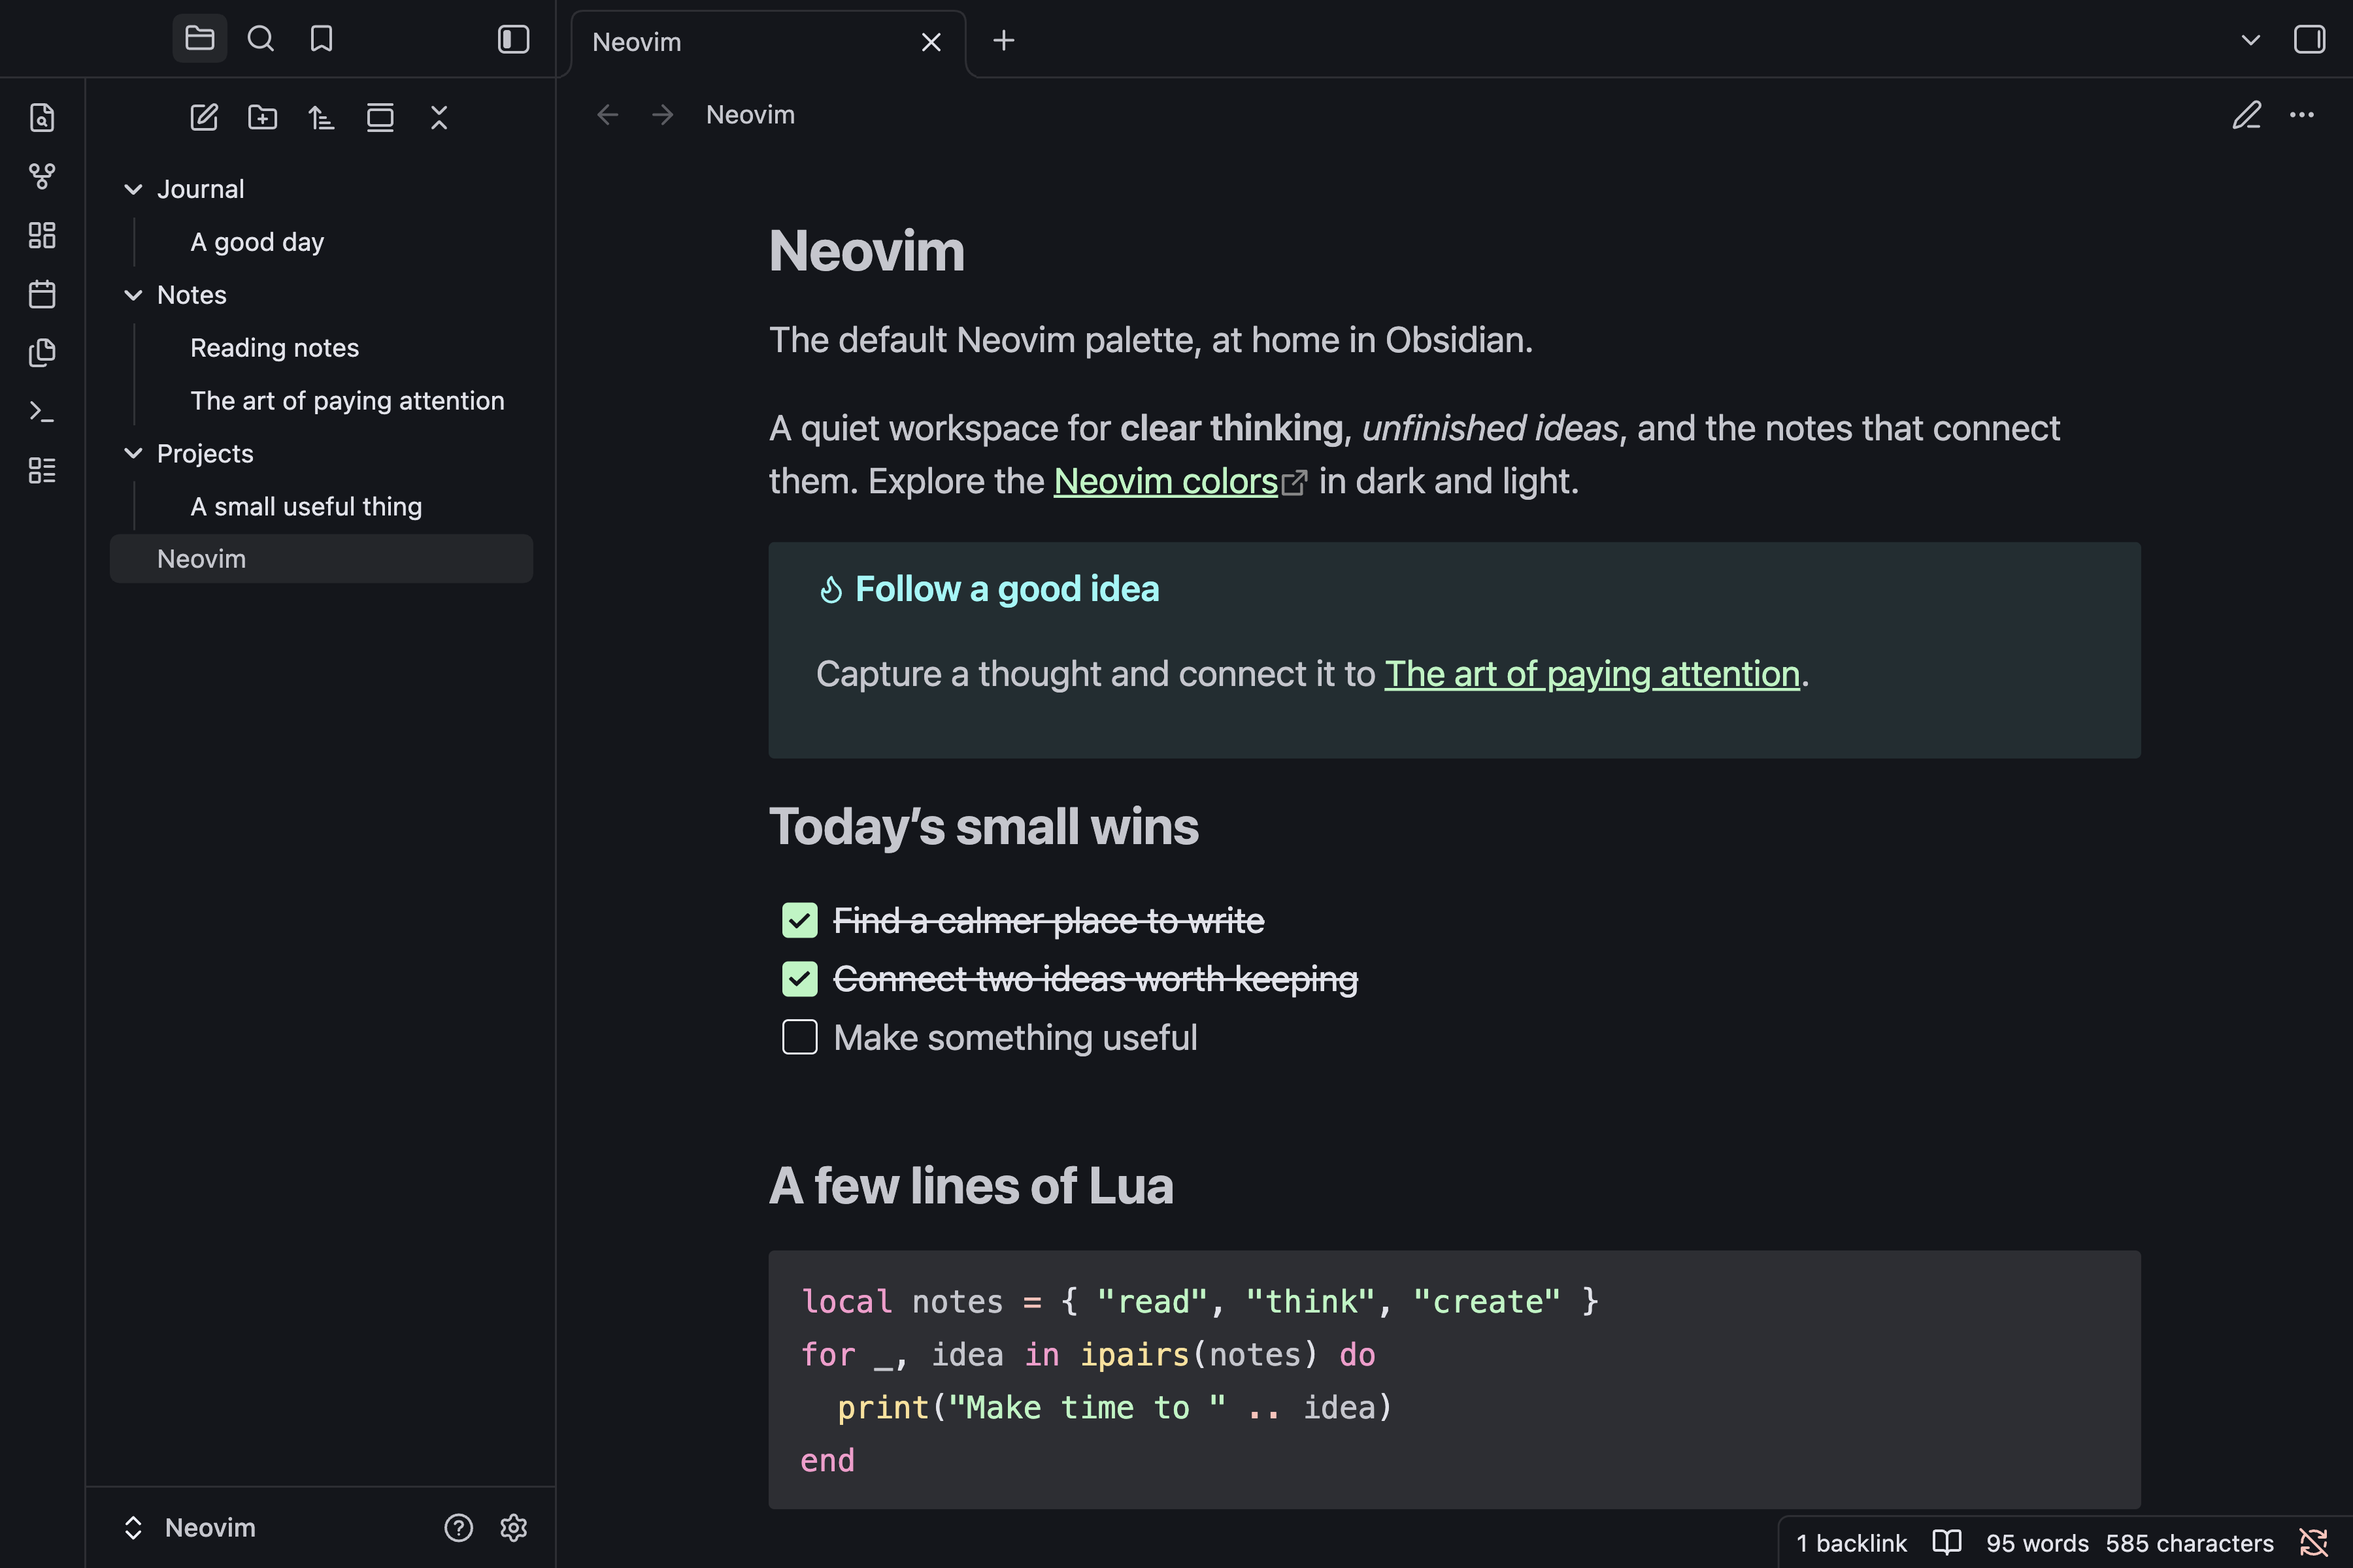
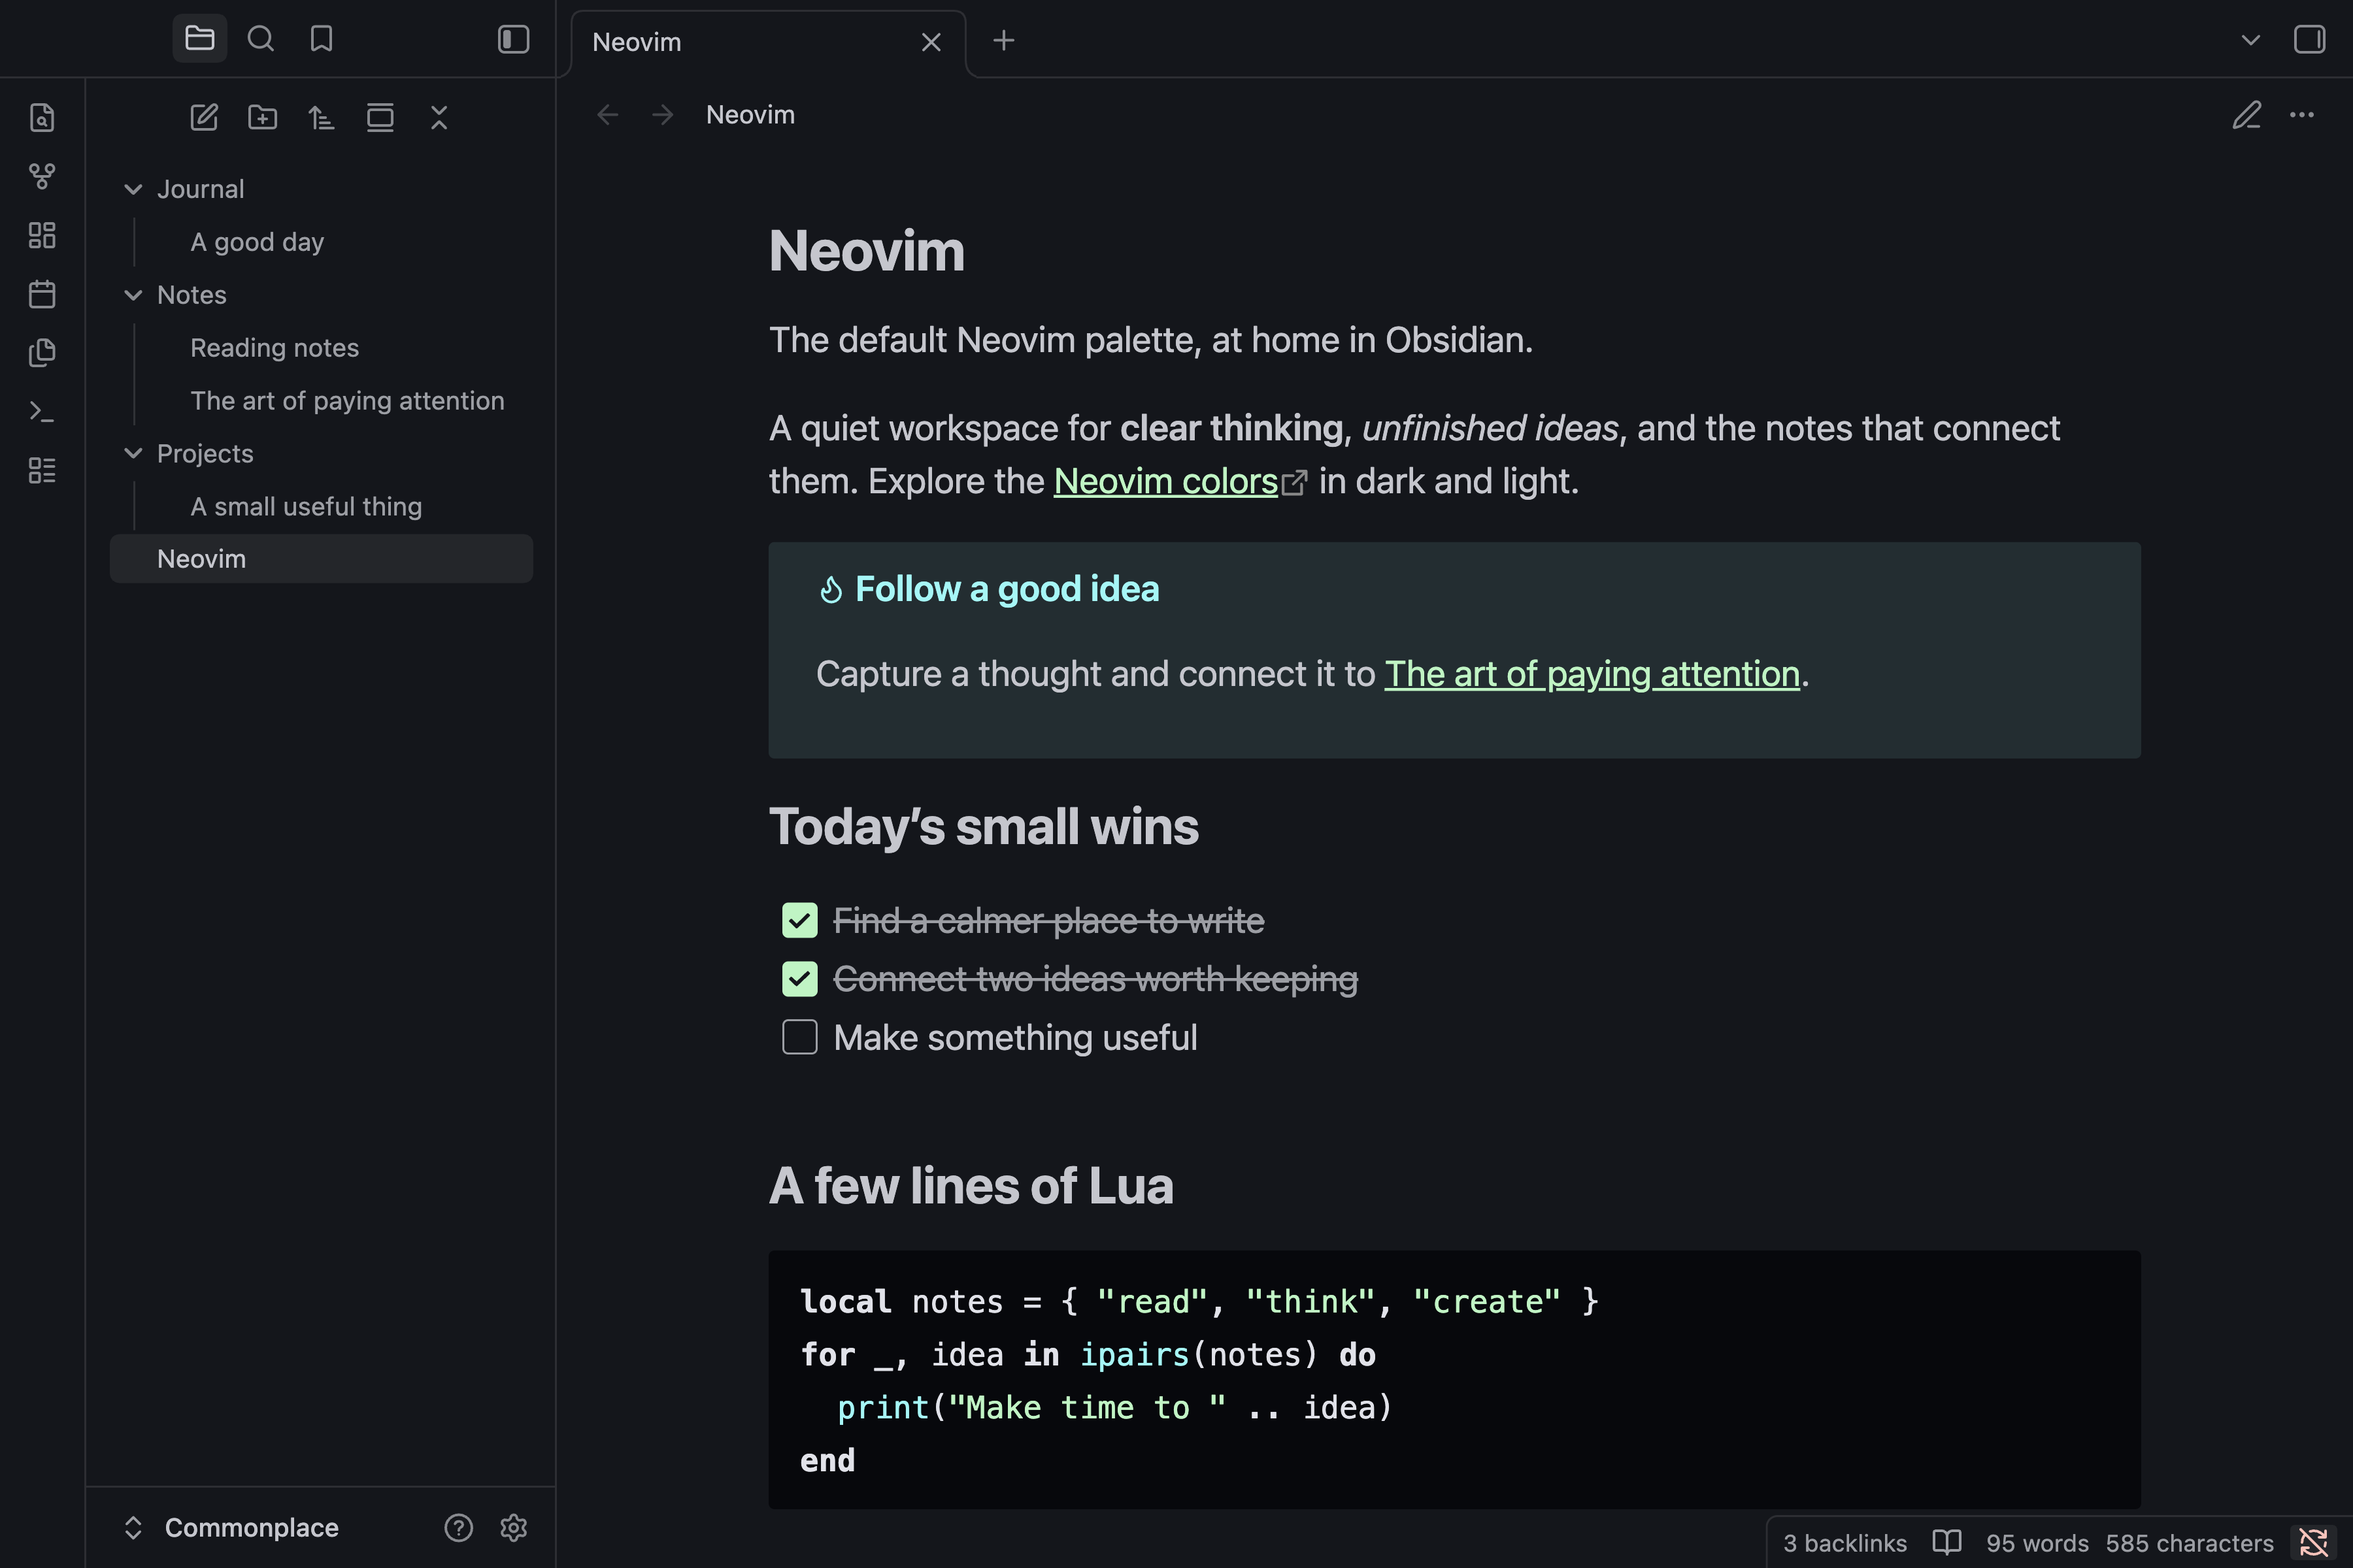
feat: extend Neovim colors across the workspace

diff --git a/theme.css b/theme.css
@@ -1,7 +1,7 @@
 body {
   --text-normal: var(--color-base-60);
-  --text-muted: var(--color-base-70);
-  --text-faint: var(--color-base-80);
+  --text-muted: var(--color-base-50);
+  --text-faint: var(--color-base-50);
   --text-on-accent: var(--color-base-20);
   --modal-border-color: var(--color-base-30, var(--background-modifier-border-focus));
   --prompt-border-color: var(--color-base-30, var(--background-modifier-border-focus));
@@ -28,7 +28,7 @@ body {
   --color-accent-2: hsl(calc(var(--accent-h) - 3), calc(var(--accent-s) * 1.05), calc(var(--accent-l) * 1.15));
   --color-red-rgb: 255, 192, 185;
   --color-red: #ffc0b9;
-  --color-yellow-rgb: 254, 224, 148;
+  --color-yellow-rgb: 252, 224, 148;
   --color-yellow: #fce094;
   --color-green-rgb: 179, 246, 192;
   --color-green: #b3f6c0;
@@ -78,6 +78,16 @@ body {
 
 .theme-dark,
 .theme-light {
+  --color-base-00: var(--color-base-10);
+  --color-base-05: var(--color-base-10);
+  --color-base-25: var(--color-base-30);
+  --color-base-35: var(--color-base-40);
+  --color-base-100: var(--color-base-70);
+  --color-orange: var(--color-yellow);
+  --color-orange-rgb: var(--color-yellow-rgb);
+  --color-pink: var(--color-purple);
+  --color-pink-rgb: var(--color-purple-rgb);
+
   --background-primary: var(--color-base-20);
   --background-primary-alt: var(--color-base-30);
   --background-secondary: var(--color-base-20);
@@ -90,4 +100,110 @@ body {
   --background-modifier-border-focus: var(--color-base-40);
   --interactive-normal: var(--color-base-10);
   --interactive-hover: var(--color-base-20);
+
+  --text-selection: var(--color-base-40);
+  --highlight-background-yellow: color-mix(in srgb, var(--color-yellow) 20%, transparent);
+  --text-highlight-bg: var(--highlight-background-yellow);
+  --highlight-background: var(--highlight-background-yellow);
+
+  --code-background: var(--color-base-10);
+  --code-normal: var(--color-base-70);
+  --code-comment: var(--color-base-50);
+  --code-function: var(--color-cyan);
+  --code-important: var(--color-cyan);
+  --code-keyword: var(--color-base-70);
+  --code-operator: var(--color-base-70);
+  --code-property: var(--color-blue);
+  --code-punctuation: var(--color-base-70);
+  --code-string: var(--color-green);
+  --code-tag: var(--color-cyan);
+  --code-value: var(--color-base-70);
+
+  --blockquote-color: var(--text-normal);
+  --blockquote-border-color: var(--color-base-40);
+
+  --callout-default: var(--color-cyan);
+  --callout-info: var(--color-cyan);
+  --callout-todo: var(--color-blue);
+  --callout-important: var(--color-cyan);
+  --callout-tip: var(--color-cyan);
+  --callout-success: var(--color-green);
+  --callout-question: var(--color-yellow);
+  --callout-warning: var(--color-yellow);
+  --callout-fail: var(--color-red);
+  --callout-error: var(--color-red);
+  --callout-bug: var(--color-red);
+  --callout-example: var(--color-purple);
+  --callout-summary: var(--color-cyan);
+  --callout-quote: var(--text-muted);
+}
+
+.markdown-rendered .token.keyword,
+.markdown-source-view.mod-cm6 .cm-keyword {
+  font-weight: var(--font-bold);
+}
+
+.plugin-tasks-toolbar {
+  align-items: center;
+  gap: var(--size-4-2);
+}
+
+.plugin-tasks-toolbar > label {
+  position: relative;
+  flex: 1;
+  min-width: 0;
+  max-width: 24em;
+}
+
+.plugin-tasks-toolbar label input {
+  width: 100%;
+  min-width: 0;
+  height: var(--input-height);
+  padding: 0 var(--size-4-2);
+  padding-inline-start: calc(var(--icon-size) + var(--size-4-4));
+  font-family: var(--font-interface);
+  font-size: var(--font-ui-small);
+  color: var(--text-normal);
+  background-color: var(--background-modifier-form-field);
+  border: var(--border-width) solid var(--background-modifier-border);
+  border-radius: var(--input-radius);
+  box-shadow: none;
+}
+
+.plugin-tasks-toolbar label input::placeholder {
+  color: var(--text-muted);
+  opacity: 1;
+}
+
+.plugin-tasks-toolbar label .svg-icon {
+  inset-inline-start: var(--size-4-2);
+  transform: none;
+  color: var(--text-muted);
+  pointer-events: none;
+}
+
+.plugin-tasks-toolbar > button {
+  flex: 0 0 var(--input-height);
+  width: var(--input-height);
+  height: var(--input-height);
+  padding: 0;
+  font-family: var(--font-interface);
+  font-size: var(--font-ui-small);
+  color: var(--text-muted);
+  background-color: var(--interactive-normal);
+  border: var(--border-width) solid var(--background-modifier-border);
+  border-radius: var(--input-radius);
+  box-shadow: none;
+}
+
+.plugin-tasks-toolbar > button:hover {
+  color: var(--text-normal);
+  background-color: var(--color-base-30);
+  border-color: var(--background-modifier-border-focus);
+}
+
+.plugin-tasks-toolbar label input:focus,
+.plugin-tasks-toolbar > button:focus-visible {
+  outline: 2px solid var(--interactive-accent);
+  outline-offset: 2px;
 }

diff --git a/README.md b/README.md
@@ -1,6 +1,8 @@
 # Obsidian + Neovim
 
-This is a basic Obsidian theme, only with modified colors to match the default Neovim color scheme, so nothing supernatural. The default Neovim color scheme is [announced](https://neovim.io/roadmap/) in version 0.10.
+An Obsidian theme that keeps the default layout and uses the default Neovim
+palette in dark and light modes. Neovim introduced this color scheme in
+[version 0.10](https://neovim.io/roadmap/).
 
 Check [this pull request](https://github.com/neovim/neovim/pull/26540) for more information.
 
@@ -16,6 +18,12 @@ Check [this pull request](https://github.com/neovim/neovim/pull/26540) for more 
 In **Settings → Appearance**, set **Base color scheme** to **Dark** or **Light**
 to use the matching Neovim palette, or choose **Adapt to system** to follow your
 system setting.
+
+Body text uses softer shades for reading. Code follows Neovim's restrained
+syntax colors, with green strings, cyan functions, and bold neutral keywords.
+Quotes, callouts, highlights, and secondary labels use the same palette.
+The Tasks plugin's filter and copy button also match the theme; the plugin
+is optional.
 
 Neovim does not provide any **Style Settings** options and does not require the
 Style Settings plugin. For further customization, use Obsidian's
